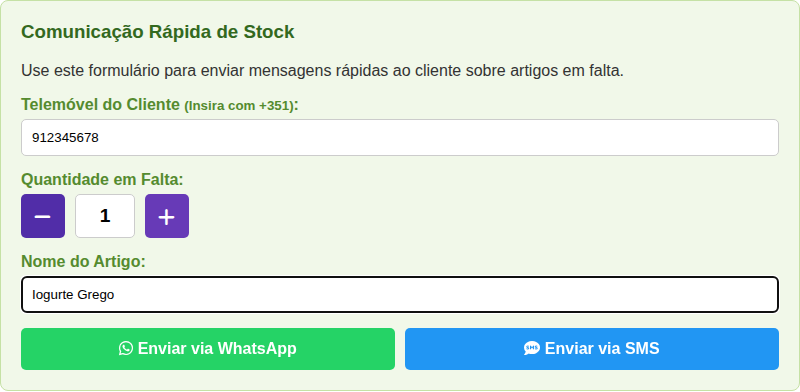
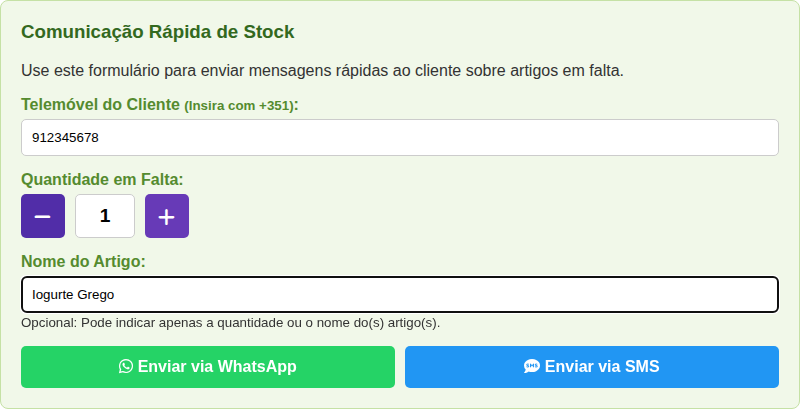
feat: enhance picker communication with flexible message logic and optional fields
- Updated `js/main.js` to implement flexible message construction based on quantity and description presence.
- Added helper text to "Nome do Artigo" input in `pages/picker.html` to indicate it is optional.
- Removed mandatory validation for "Nome do Artigo", allowing quantity-only messages.
- Handled scenarios: Quantity only ("X artigo(s)"), Description only ("ItemName"), and Both ("Xx ItemName").

Changed region(s): [[0.0, 0.4286, 0.9688, 0.9184], [0.0312, 0.1531, 0.9688, 0.398], [0.0312, 0.0612, 0.375, 0.1224]]

diff --git a/js/main.js b/js/main.js
@@ -38,7 +38,7 @@ document.addEventListener('DOMContentLoaded', () => {
         function getMessageDetails() {
             const phoneInput = document.getElementById('cliente-tel');
             const nameInput = document.getElementById('artigo-nome');
-            const qtdValue = document.getElementById('artigo-qtd').value;
+            const qtdValue = parseInt(document.getElementById('artigo-qtd').value) || 1;
 
             let phone = phoneInput.value.replace(/\s/g, '').trim(); // Remove spaces
             const itemName = nameInput.value.trim();
@@ -48,9 +48,20 @@ document.addEventListener('DOMContentLoaded', () => {
                 return null;
             }
 
-            if (!itemName) {
-                alert('Por favor, insira o nome do artigo em falta.');
-                return null;
+            // Determine article details based on inputs
+            let detalheProdutos = '';
+
+            if (itemName === '') {
+                // Scenario A: Only Quantity, No Description
+                detalheProdutos = `${qtdValue} artigo(s)`;
+            } else {
+                if (qtdValue === 1) {
+                    // Scenario B: Description exists, Quantity = 1
+                    detalheProdutos = itemName;
+                } else {
+                    // Scenario C: Description exists, Quantity > 1
+                    detalheProdutos = `${qtdValue}x ${itemName}`;
+                }
             }
 
             // Phone Validation: Ensure it starts with + or 00, or add default +351
@@ -67,7 +78,7 @@ document.addEventListener('DOMContentLoaded', () => {
                  phone = '+' + phone.substring(2);
             }
 
-            const message = `Boa tarde, sou o responsável pela sua encomenda feita através do Pingo Doce Online. Devido à falta de stock dos seguintes artigos: ${qtdValue} unidades de ${itemName}, peço que contacte-me dentro dos próximos 5 min de forma a conseguir alinhar consigo as substituições.`;
+            const message = `Boa tarde, sou o responsável pela sua encomenda feita através do Pingo Doce Online. Devido à falta de stock dos seguintes artigos: ${detalheProdutos}, peço que contacte-me dentro dos próximos 5 min de forma a conseguir alinhar consigo as substituições.`;
 
             return { phone, message };
         }

diff --git a/pages/picker.html b/pages/picker.html
@@ -69,6 +69,7 @@
         <div class="form-group">
             <label for="artigo-nome">Nome do Artigo:</label>
             <input type="text" id="artigo-nome" placeholder="Ex: Leite Meio Gordo, Maçãs...">
+            <small class="helper-text">Opcional: Pode indicar apenas a quantidade ou o nome do(s) artigo(s).</small>
         </div>
 
         <div class="button-group">

diff --git a/verify_logic.py b/verify_logic.py
@@ -1,0 +1,70 @@
+from playwright.sync_api import sync_playwright
+
+def verify_logic():
+    with sync_playwright() as p:
+        browser = p.chromium.launch()
+        page = browser.new_page()
+
+        # Go to the picker page
+        page.goto("http://localhost:8000/pages/picker.html")
+
+        # Helper function to get the message
+        # We'll intercept window.open to get the URL and extract the text
+
+        def test_scenario(phone, qty, desc, expected_text_part):
+            print(f"Testing Scenario: Qty={qty}, Desc='{desc}'...")
+
+            # Reset by reloading
+            page.reload()
+
+            # Set inputs
+            page.fill("#cliente-tel", phone)
+
+            # Click plus button to reach desired quantity
+            # Assuming starts at 1
+            current_qty = 1
+            while current_qty < qty:
+                page.click("#qtd-plus")
+                current_qty += 1
+
+            page.fill("#artigo-nome", desc)
+
+            # Intercept window.open
+            with page.expect_popup() as popup_info:
+                page.click("#btn-whatsapp")
+
+            popup = popup_info.value
+            url = popup.url
+
+            # Decode URL
+            import urllib.parse
+            decoded_url = urllib.parse.unquote(url)
+
+            # Normalize spaces (decoding might leave + or non-breaking spaces)
+            decoded_url_normalized = decoded_url.replace('+', ' ')
+
+            if expected_text_part in decoded_url_normalized:
+                print(f"PASS: Message contains '{expected_text_part}'")
+            else:
+                # Debugging: show what was actually in the relevant part of the message
+                import re
+                match = re.search(r"artigos:(.*?), peço", decoded_url_normalized)
+                found = match.group(1) if match else "NOT FOUND"
+                print(f"FAIL: Expected '{expected_text_part}', Found '{found}'. URL: {decoded_url_normalized}")
+
+            popup.close()
+
+        # Test Scenario A: Only Quantity (3), No Description -> "3 artigo(s)"
+        # Note: WhatsApp link encoding might change spaces to +, so we check for substring carefully or decode properly
+        test_scenario("912345678", 3, "", "3 artigo(s)")
+
+        # Test Scenario B: Quantity 1, Description "Leite" -> "Leite" (no 1x)
+        test_scenario("912345678", 1, "Leite", "artigos: Leite, peço")
+
+        # Test Scenario C: Quantity 2, Description "Pão" -> "2x Pão"
+        test_scenario("912345678", 2, "Pão", "2x Pão")
+
+        browser.close()
+
+if __name__ == "__main__":
+    verify_logic()
